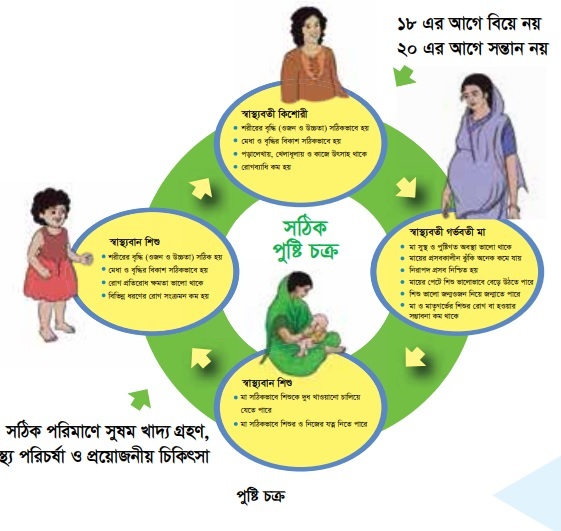
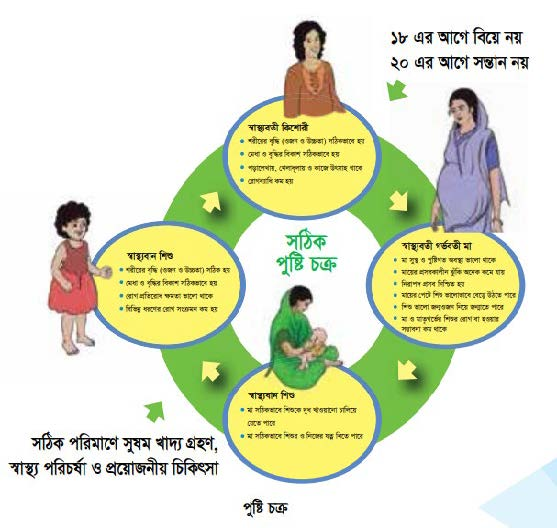
lession 9

diff --git a/dashboard.html b/dashboard.html
@@ -4888,6 +4888,8 @@ function renderLessonPage(modIdx, lesIdx) {
   const isNutritionMenstrualFoodsLesson = (modIdx === 17 && lesIdx === 6);
   // Module 18 Lesson 8 — Anemia and micronutrient deficiency
   const isNutritionAnemiaLesson = (modIdx === 17 && lesIdx === 7);
+  // Module 18 Lesson 9 — Nutrition and malnutrition cycle
+  const isNutritionCycleLesson = (modIdx === 17 && lesIdx === 8);
   const isRichLesson = isGlobeLesson || isChangesLesson || isStagesLesson || isReproLesson || isMenstrualLesson || isParentsLesson || isAbnormalitiesLesson || isMaleSystemLesson || isNocturnalEmissionLesson || isChildMarriageLesson || isChildMarriageConsequencesLesson || isChildMarriagePreventionLesson || isFamilyPlanningLesson || isFamilyPlanningComparisonLesson || isAdolescentMotherhoodLesson || isAdolescentPregnancyPreventionLesson || isPregnancyDangerSignsLesson || isPregnancyManagementCareLesson || isStiLesson || isStiComplicationsLesson || isWindowPeriodLesson || isCervicalCancerLesson || isHpvVaccineLesson || isTdVaccineLesson || isPcosLesson || isPcosProblemsLesson || isPcosSolutionsLesson || isChildRightsLesson || isSexualReproductiveRightsLesson || isGenderBasedDiscriminationLesson || isGenderDiscriminationLesson || isPrevailingGenderDiscriminationLesson || isGenderViolenceLesson || isSexualHarassmentLesson || isFinancialLossLesson || isGenderDiscriminationActionsLesson || isViolenceOrAbuseLesson || isYouthViolenceFormsLesson || isPsychosocialChangesLesson || isEmotionLesson || isEmotionManagementStrategiesLesson || isAnxietyLesson || isStressLesson || isStressCausesLesson || isAngerLesson || isAngerTriggersLesson || isExamFearLesson || isExamFearSolutionsLesson || isDigitalAddictionLesson || isPsychosocialEducationLesson || isEmpathyLesson || isActiveListeningLesson || isValuesLesson || isBehaviorLesson || isEthicsLesson || isDrugAddictionLesson || isDrugAddictionSignsLesson || isDrugAddictionConsequencesLesson || isFirstAidLesson || isFirstAidBleedingLesson || isBurnsLesson || isBurnsFirstAidLesson || isBoneFractureLesson || isSnakeBiteLesson || isDogBiteLesson || isPoisoningLesson || isDrowningLesson || isChokingLesson || isAdultChokingLesson || isNutritionLesson || isNutritionBmiTableLesson || isNutritionBmiVisualLesson || isNutritionElementsLesson || isNutritionMealPlanLesson || isNutritionDiversityLesson || isNutritionMenstrualFoodsLesson || isNutritionAnemiaLesson;
   const richContent = isGlobeLesson ? buildGlobeSection()
     : isChangesLesson ? buildAdolescentChangesSection()
@@ -4965,6 +4967,7 @@ function renderLessonPage(modIdx, lesIdx) {
     : isNutritionMealPlanLesson ? buildNutritionMealPlanLessonSection()
     : isNutritionDiversityLesson ? buildNutritionDiversityLessonSection()
     : isNutritionMenstrualFoodsLesson ? buildNutritionMenstrualFoodsLessonSection()
+    : isNutritionCycleLesson ? buildNutritionCycleLessonSection()
     : isNutritionAnemiaLesson ? buildNutritionAnemiaLessonSection()
     : null;
   
@@ -9057,7 +9060,51 @@ function buildFamilyPlanningSection() {
         `;
       }
 
-      /* ── ANEMIA AND MICRONUTRIENT DEFICIENCY (Module 18, Lesson 8) ── */
+      /* ── NUTRITION AND MALNUTRITION CYCLE (Module 18, Lesson 9) ── */
+      function buildNutritionCycleLessonSection() {
+        return `
+        <div class="app-intro-box">
+          <div class="app-intro-icon" aria-hidden="true">🌱</div>
+          <div class="app-intro-titles" style="justify-content: center;">
+            <p class="app-intro-sub bn">অপুষ্টি চক্র বংশ পরম্পরায় চলতে থাকে। পুষ্টিজনিত সমস্যায় ভোগা মেয়েদের পর্যাপ্ত দৈহিক বৃদ্ধি না হওয়ায় তারা বেঁটে বা খাটো হয় এবং কম ওজনের শিশুর জন্ম দিয়ে থাকে। আর এই কম ওজনের শিশুরা যদি মেয়ে হয় তাহলে তারাও বড় হলে খাটো হয় এবং বিয়ে হলে আবার কম ওজনের শিশুর জন্ম দেয়, যা আরো ভয়াবহ। এভাবেই এই চক্র চলতে থাকে যতক্ষণ পর্যন্ত না এই চক্র ভেঙে যায়। এজন্য জীবনের সকল স্তরেই, বিশেষ করে শৈশব ও তারুণ্যে পুষ্টিকর খাবার গ্রহণের মাধ্যমে কিশোরী ও নারীদের পুষ্টি নিশ্চিত করতে হবে।</p>
+            <p class="app-intro-sub en">The malnutrition cycle continues from generation to generation. Girls who suffer from nutrition-related problems do not grow properly, become short in stature, and give birth to low-birth-weight babies. If those low-birth-weight babies are girls, they too may grow up short and later give birth to low-birth-weight babies again, making the cycle even more serious. This continues until the cycle is broken. For that reason, nutrition must be ensured for adolescent girls and women at all stages of life, especially during childhood and adolescence, by eating nutritious food.</p>
+          </div>
+        </div>
+
+        <div class="phases-anatomy-row" style="margin-top: 20px; align-items: stretch;">
+          <div class="repro-card">
+            <div class="repro-card__header repro-card__header--teal">
+              <div class="repro-card__icon" aria-hidden="true">🔄</div>
+              <div>
+                <div class="repro-card__title">
+                  <span class="bn">পুষ্টি চক্র</span>
+                  <span class="en">Nutrition Cycle</span>
+                </div>
+              </div>
+            </div>
+            <div class="repro-card__body">
+              <img src="images/modu18/pusti1.jpg" alt="পুষ্টি চক্র" style="width:100%; height:auto; display:block; border-radius:12px; box-shadow:0 6px 24px rgba(13,71,161,0.12);" loading="lazy" decoding="async" />
+            </div>
+          </div>
+
+          <div class="repro-card">
+            <div class="repro-card__header repro-card__header--violet">
+              <div class="repro-card__icon" aria-hidden="true">↺</div>
+              <div>
+                <div class="repro-card__title">
+                  <span class="bn">অপুষ্টি চক্র</span>
+                  <span class="en">Malnutrition Cycle</span>
+                </div>
+              </div>
+            </div>
+            <div class="repro-card__body">
+              <img src="images/modu18/pusti2.jpg" alt="অপুষ্টি চক্র" style="width:100%; height:100%; display:block; border-radius:12px; box-shadow:0 6px 24px rgba(13,71,161,0.12);" loading="lazy" decoding="async" />
+            </div>
+          </div>
+        </div>
+        `;
+      }
+
       function buildNutritionAnemiaLessonSection() {
         return `
         <div class="app-intro-box">
